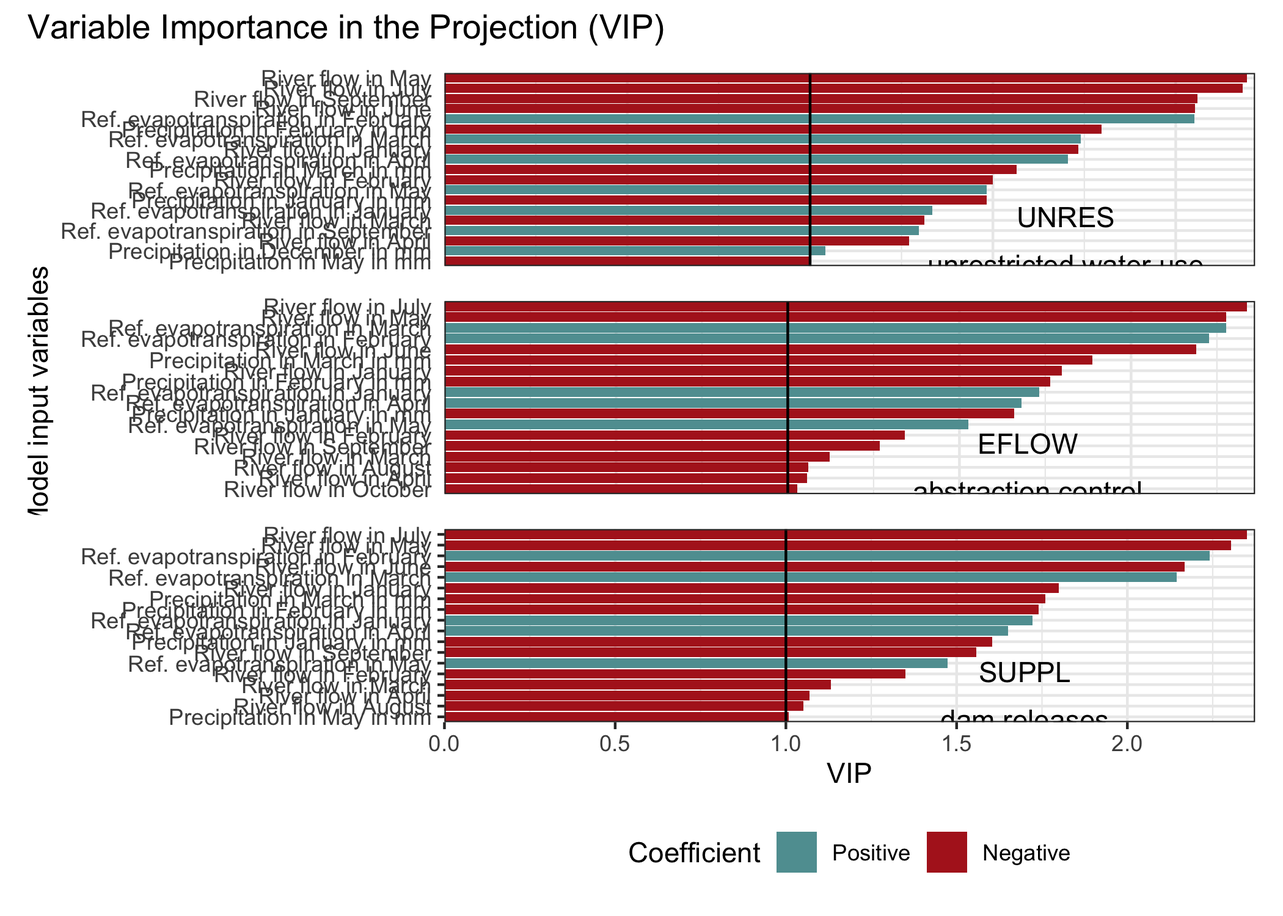
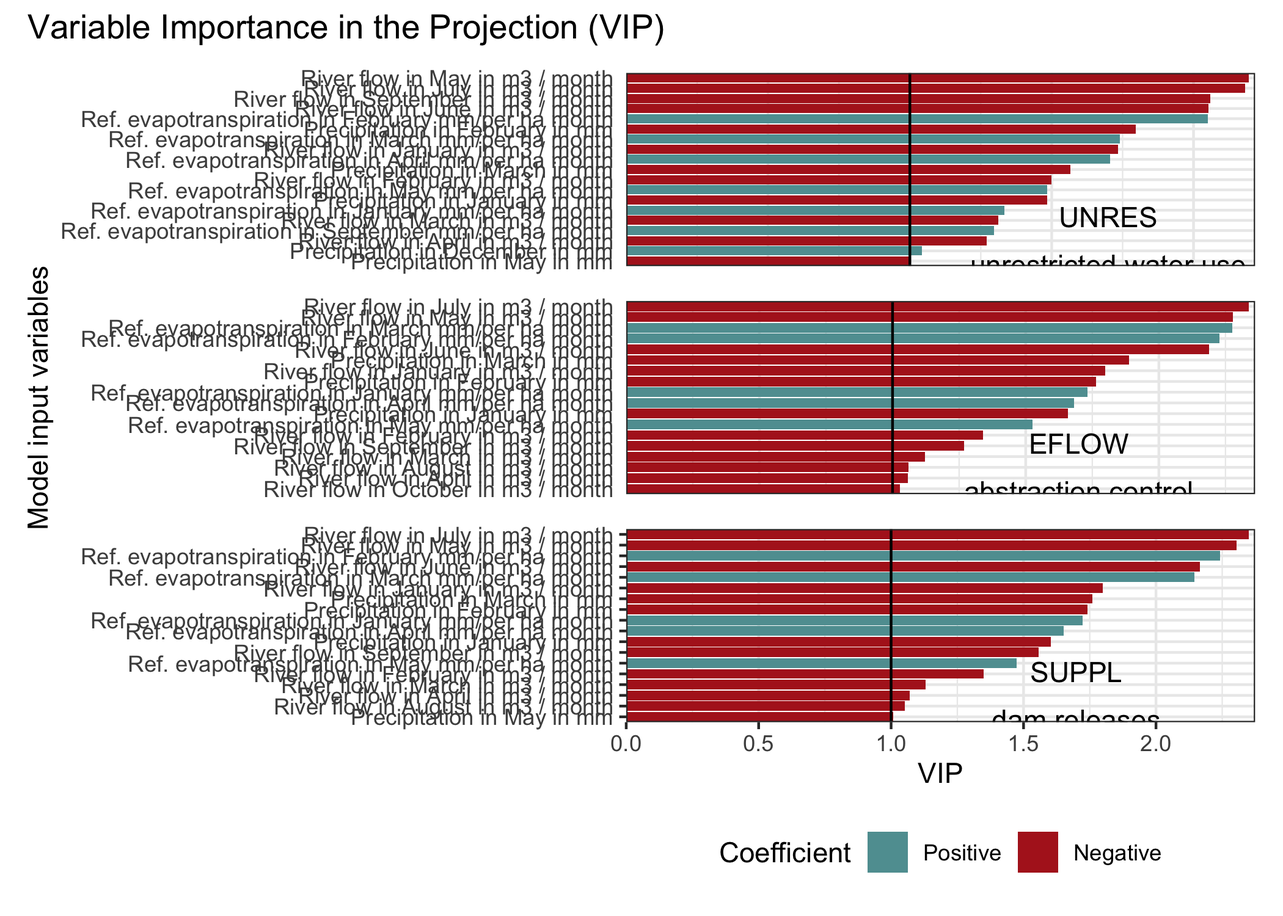
rebuild figures and run with new labels and clarification

diff --git a/index.md b/index.md
@@ -13,10 +13,10 @@ and Whitney 2020; Lanzanova et al. 2019; Cory Whitney et al. 2018). This
 includes collaborative model development (C. Whitney, Shepherd, and
 Luedeling 2018) to assess farming futures given e-flow forecasts under
 different management options. To build these simulations we use
-functions from the `decisionSupport` (Luedeling et al. 2023), `dplyr`
-(Wickham et al. 2023), `nasapower` (Sparks 2023), `patchwork` (Pedersen
+functions from the `decisionSupport` (Luedeling et al. 2024), `dplyr`
+(Wickham et al. 2023), `nasapower` (Sparks 2024), `patchwork` (Pedersen
 2024), `tidyverse` (Wickham 2023b) and `Evapotranspiration` libraries in
-the R programming language (R Core Team 2023).
+the R programming language (R Core Team 2024).
 
 ## The model
 
@@ -45,7 +45,7 @@ identified as carrying decision-relevant uncertainty can then be
 targeted by decision-supporting research.
 
 The `mcSimulation` function from the `decisionSupport` package can be
-applied to conduct decision analysis (Luedeling et al. 2023). The
+applied to conduct decision analysis (Luedeling et al. 2024). The
 function requires three inputs:
 
 1.  an `estimate` of the joint probability distribution of the input
@@ -102,8 +102,8 @@ The following function defines 3 scenarios:
     eflows aren’t achieved, water extraction is curtailed. There are no
     measures to add water to the river in such events. We simulate this
     scenario with our own functions and some from the `nasapower`
-    (Sparks 2023) and `Evapotranspiration` (**R-Evapotranspiration?**)
-    packages.
+    (Sparks 2024) and `Evapotranspiration` (Guo, Westra, and
+    Peterson 2022) packages.
 3.  SUPPL – E-flows achieved through abstraction control and dam
     releases: This is an eflow scenario, in which eflows are interpreted
     as encompassing the ecological as well as the smallholder irrigation
@@ -131,20 +131,20 @@ In the following we use of various `decisionSupport` functions, which
 use the `tidyverse` libraries (Wickham et al. 2019) including `ggplot2`
 (Wickham et al. 2024), `plyr` (Wickham 2023a) and `dplyr` (Wickham et
 al. 2023) among others in the [R programming
-language](https://www.r-project.org/) (R Core Team 2023).
+language](https://www.r-project.org/) (R Core Team 2024).
 
 Here we generate a model as a function using `decisionSupport` library
 we use the `decisionSupport` functions `vv()` to produce time series
-with variation from a pre-defined mean and coefficient of variation,
-`chance_event()` to simulate whether events occur and `discount()` to
-discount values along a time series and generate a Net Present Value for
-our intervention comparison.
+with variation from a pre-defined mean.
 
 The following script contains the basic model we used to run the Monte
 Carlo.
 
 ``` r
-limpopo_decision_function <- function(x, varnames){
+# load vv function
+source(file = "functions/vv.R")
+
+limpopo_decision_function <- function(x){
 
 # generating boundary conditions for the simulation run ####
 
@@ -173,9 +173,9 @@ pre_livestock_river_flow <- sapply(1:12,function(x) eval(parse(text=paste0("rive
 # Define e-flow for each month ####
 eflow <- sapply(1:12,function(x) eval(parse(text=paste0("eflow_",x)))) # in m3 / month
 
-# Calculating the water needed for watering livestock ####
+# Calculating the water needed for watering livestock m3 / month ####
 # assuming that this is more or less stable throughout the year, but varies a bit
-livestock_water_needs <- vv(livestock_water_need,var_CV,12)
+livestock_water_needs <- vv(livestock_water_need,var_CV,12) # m3 / month
 # assuming that the eflows aren't affecting ability to water livestock and that there's always enough water for all the livestock
 river_flow <- pre_livestock_river_flow-livestock_water_needs
 
@@ -192,18 +192,26 @@ total_effective_rainfall <- effective_rainfall*farmed_area*10 # total effective 
 # Calculating the total annual irrigation need m3/ha ####
 total_irrigation_need <- total_cropwater_need-total_effective_rainfall # in m3/ha per year
 # sum(total_irrigation_need/farmed_area) is around 8600 m3/ha, very close to the reported values across the literature in Limpopo
+
 # Calculating the annual water losses in m3/ha ####
 # from the efficiency of the pumps and in the water allocation 
+# Efficiency of pumps (efficiency_pumps) and efficiency of irrigation scheduling (efficiency_irrig_scheduling) are adjusted to ensure they remain between 0 and 1,
 efficiency_pumps <- vv(effi_pump,var_CV,12)
 efficiency_irrig_scheduling <- vv(effi_sched,var_CV,12)
 efficiency_pumps <- sapply(efficiency_pumps, function(x)  min(x,1))
 efficiency_pumps <- sapply(efficiency_pumps, function(x)  max(x,0))
 efficiency_irrig_scheduling <- sapply(efficiency_irrig_scheduling, function(x)  min(x,1))
 efficiency_irrig_scheduling <- sapply(efficiency_irrig_scheduling, function(x)  max(x,0))
-
+# # water_losses_share represents the share of water lost due to inefficiencies, calculated as 
+# 1 − ( efficiency_pumps × efficiency_irrig_scheduling )
+# 1−(efficiency_pumps×efficiency_irrig_scheduling). 
+# This results in higher irrigation water needs to compensate for these losses
 # around 50% efficiency
 water_losses_share <- (1-efficiency_pumps*efficiency_irrig_scheduling)
-
+#Adjusted Irrigation Water Need:
+# irrigation_water_need is calculated by dividing total_irrigation_need by the remaining efficient share 
+# ( 1 − water_losses_share )
+# (1−water_losses_share), effectively increasing the water required due to inefficiencies.
 irrigation_water_need <- total_irrigation_need/(1-water_losses_share) # m3/ha 
 # irrigation inefficiency doubles the irrigation need
 # sum(irrigation_water_need-total_irrigation_need)/farmed_area is around 6,886
@@ -400,6 +408,7 @@ present_flows <- read.csv("data/Letaba_modelled_present_flows_m3_per_s.csv", fil
 presentflowsort <-
   present_flows[, c(1, order(unlist(sapply(colnames(present_flows)[2:13], function(x)
     which(month.abb[1:12] == x)))) + 1)]
+
 presentflow_permonth<-data.frame(cbind(presentflowsort[,1],t(t(presentflowsort[,2:13])*c(31,28,31,30,31,30,31,31,30,31,30,31)*3600*24)))
 
 colnames(presentflow_permonth)[1] <- "Year"
@@ -430,7 +439,7 @@ natural_flows<-read.csv("data/Letaba_modelled_natural_flows_m3_per_s.csv", fileE
 ```
 
 Here we run the model with the `scenario_mc` function from the
-`decisionSupport` package (Luedeling et al. 2023). The function
+`decisionSupport` package (Luedeling et al. 2024). The function
 essentially generates a Monte Carlo model with data from existing
 scenarios for some of the model inputs.
 
@@ -641,7 +650,7 @@ summary(results_evpi$Mean_Crop_water_gap_difference_2_vs_1)
 #>  Length:71          Min.   :0.01654   Min.   :0   Min.   :0.00000   Min.   :0  
 #>  Class :character   1st Qu.:0.08604   1st Qu.:0   1st Qu.:0.06247   1st Qu.:0  
 #>  Mode  :character   Median :0.11693   Median :0   Median :0.11128   Median :0  
-#>                     Mean   :0.10459   Mean   :0   Mean   :0.08691   Mean   :0  
+#>                     Mean   :0.10463   Mean   :0   Mean   :0.08695   Mean   :0  
 #>                     3rd Qu.:0.12497   3rd Qu.:0   3rd Qu.:0.12485   3rd Qu.:0  
 #>                     Max.   :0.17009   Max.   :0   Max.   :0.17009   Max.   :0  
 #>                     NA's   :12                                                 
@@ -664,7 +673,7 @@ summary(results_evpi$Mean_Crop_water_gap_difference_3_vs_1)
 #>  Length:71          Min.   :-0.41450   Min.   :0.0000   Min.   :0   Min.   :0  
 #>  Class :character   1st Qu.:-0.39088   1st Qu.:0.1418   1st Qu.:0   1st Qu.:0  
 #>  Mode  :character   Median :-0.37520   Median :0.3425   Median :0   Median :0  
-#>                     Mean   :-0.31488   Mean   :0.2617   Mean   :0   Mean   :0  
+#>                     Mean   :-0.31470   Mean   :0.2615   Mean   :0   Mean   :0  
 #>                     3rd Qu.:-0.26584   3rd Qu.:0.3904   3rd Qu.:0   3rd Qu.:0  
 #>                     Max.   :-0.04831   Max.   :0.4145   Max.   :0   Max.   :0  
 #>                     NA's   :12                                                 
@@ -682,106 +691,107 @@ There are no variables with a positive EVPI.
 
 ## Estimate values
 
-| Description                                                                                                                                               | variable                          | distribution |       lower |       upper | label                                  |
-|:----------------------------------------------------------------------------------------------------------------------------------------------------------|:----------------------------------|:-------------|------------:|------------:|:---------------------------------------|
-| Precipitation in month 1 in mm                                                                                                                            | prec_1                            | posnorm      |       45.00 |      135.00 | Precipitation in January in mm         |
-| Precipitation in month 2 in mm                                                                                                                            | prec_2                            | posnorm      |       31.00 |       93.00 | Precipitation in February in mm        |
-| Precipitation in month 3 in mm                                                                                                                            | prec_3                            | posnorm      |       25.00 |       75.00 | Precipitation in March in mm           |
-| Precipitation in month 4 in mm                                                                                                                            | prec_4                            | posnorm      |       12.50 |       37.50 | Precipitation in April in mm           |
-| Precipitation in month 5 in mm                                                                                                                            | prec_5                            | posnorm      |       12.50 |       37.50 | Precipitation in May in mm             |
-| Precipitation in month 6 in mm                                                                                                                            | prec_6                            | posnorm      |       35.00 |      105.00 | Precipitation in June in mm            |
-| Precipitation in month 7 in mm                                                                                                                            | prec_7                            | posnorm      |        3.00 |        9.00 | Precipitation in July in mm            |
-| Precipitation in month 8 in mm                                                                                                                            | prec_8                            | posnorm      |        2.00 |        6.00 | Precipitation in August in mm          |
-| Precipitation in month 9 in mm                                                                                                                            | prec_9                            | posnorm      |        1.00 |        3.00 | Precipitation in September in mm       |
-| Precipitation in month 10 in mm                                                                                                                           | prec_10                           | posnorm      |        5.00 |       15.00 | Precipitation in October in mm         |
-| Precipitation in month 11 in mm                                                                                                                           | prec_11                           | posnorm      |        7.00 |       21.00 | Precipitation in November in mm        |
-| Precipitation in month 12 in mm                                                                                                                           | prec_12                           | posnorm      |       45.00 |      135.00 | Precipitation in December in mm        |
-|                                                                                                                                                           |                                   |              |          NA |          NA |                                        |
-|                                                                                                                                                           |                                   |              |          NA |          NA |                                        |
-|                                                                                                                                                           |                                   |              |          NA |          NA |                                        |
-| Reference evapotranspiration (ET0) mm/per ha month 1 (Hargreaves Samani equation with nasapower package)                                                  | ET0_1                             | posnorm      |      144.00 |      240.00 | Ref. evapotranspiration in January     |
-| Reference evapotranspiration (ET0) mm/per ha month 2                                                                                                      | ET0_2                             | posnorm      |      114.75 |      191.25 | Ref. evapotranspiration in February    |
-| Reference evapotranspiration (ET0) mm/per ha month 3                                                                                                      | ET0_3                             | posnorm      |       96.00 |      160.00 | Ref. evapotranspiration in March       |
-| Reference evapotranspiration (ET0) mm/per ha month 4                                                                                                      | ET0_4                             | posnorm      |       67.50 |      112.50 | Ref. evapotranspiration in April       |
-| Reference evapotranspiration (ET0) mm/per ha month 5                                                                                                      | ET0_5                             | posnorm      |       52.50 |       87.50 | Ref. evapotranspiration in May         |
-| Reference evapotranspiration (ET0) mm/per ha month 6                                                                                                      | ET0_6                             | posnorm      |       32.25 |       53.75 | Ref. evapotranspiration in June        |
-| Reference evapotranspiration (ET0) mm/per ha month 7                                                                                                      | ET0_7                             | posnorm      |       40.50 |       67.50 | Ref. evapotranspiration in July        |
-| Reference evapotranspiration (ET0) mm/per ha month 8                                                                                                      | ET0_8                             | posnorm      |       52.50 |       87.50 | Ref. evapotranspiration in August      |
-| Reference evapotranspiration (ET0) mm/per ha month 9                                                                                                      | ET0_9                             | posnorm      |       71.25 |      118.75 | Ref. evapotranspiration in September   |
-| Reference evapotranspiration (ET0) mm/per ha month 10                                                                                                     | ET0_10                            | posnorm      |       99.75 |      166.25 | Ref. evapotranspiration in October     |
-| Reference evapotranspiration (ET0) mm/per ha month 11                                                                                                     | ET0_11                            | posnorm      |      126.00 |      210.00 | Ref. evapotranspiration in November    |
-| Reference evapotranspiration (ET0) mm/per ha month 12                                                                                                     | ET0_12                            | posnorm      |      145.50 |      242.50 | Ref. evapotranspiration in December    |
-|                                                                                                                                                           |                                   |              |          NA |          NA |                                        |
-| Crop coefficient in month 1                                                                                                                               | kc_1                              | posnorm      |        0.90 |        1.00 | Crop coefficient in January            |
-| Crop coefficient in month 2                                                                                                                               | kc_2                              | posnorm      |        0.90 |        1.00 | Crop coefficient in February           |
-| Crop coefficient in month 3                                                                                                                               | kc_3                              | posnorm      |        0.90 |        1.00 | Crop coefficient in March              |
-| Crop coefficient in month 4                                                                                                                               | kc_4                              | posnorm      |        0.90 |        1.00 | Crop coefficient in April              |
-| Crop coefficient in month 5                                                                                                                               | kc_5                              | posnorm      |        0.90 |        1.00 | Crop coefficient in May                |
-| Crop coefficient in month 6                                                                                                                               | kc_6                              | posnorm      |        0.90 |        1.00 | Crop coefficient in June               |
-| Crop coefficient in month 7                                                                                                                               | kc_7                              | posnorm      |        0.90 |        1.00 | Crop coefficient in July               |
-| Crop coefficient in month 8                                                                                                                               | kc_8                              | posnorm      |        0.90 |        1.00 | Crop coefficient in August             |
-| Crop coefficient in month 9                                                                                                                               | kc_9                              | posnorm      |        0.90 |        1.00 | Crop coefficient in September          |
-| Crop coefficient in month 10                                                                                                                              | kc_10                             | posnorm      |        0.90 |        1.00 | Crop coefficient in October            |
-| Crop coefficient in month 11                                                                                                                              | kc_11                             | posnorm      |        0.90 |        1.00 | Crop coefficient in November           |
-| Crop coefficient in month 12                                                                                                                              | kc_12                             | posnorm      |        0.90 |        1.00 | Crop coefficient in December           |
-|                                                                                                                                                           |                                   |              |          NA |          NA |                                        |
-| Effective rainfall - minimum threshold                                                                                                                    | effprec_low                       | posnorm      |        5.00 |       10.00 | Effective rainfall - minimum threshold |
-| Effective rainfall - maximum threshold                                                                                                                    | effprec_high                      | posnorm      |       90.00 |      200.00 | Effective rainfall - maximum threshold |
-|                                                                                                                                                           |                                   |              |          NA |          NA |                                        |
-| Efficiency of water pumps                                                                                                                                 | effi_pump                         | tnorm_0_1    |        0.70 |        0.90 | Efficiency of the water pumps          |
-| Efficiency of irrigation scheduling and allocation                                                                                                        | effi_sched                        | tnorm_0_1    |        0.60 |        0.90 | Efficiency of irrigation scheduling    |
-| Coefficient of variation, ratio of the standard deviation to the mean (a measure of relative variability).                                                | var_CV                            | posnorm      |        5.00 |       20.00 | var_CV                                 |
-|                                                                                                                                                           |                                   |              |          NA |          NA |                                        |
-| Total irrigable area                                                                                                                                      | available_area                    | posnorm      |      100.00 |      300.00 | Available area                         |
-| Share of land that is not used because of socio-political obstacles                                                                                       | unused_sociopolit                 | tnorm_0_1    |        0.20 |        0.40 | Share of unused lands                  |
-| Number of subsistence households                                                                                                                          | n_subsistence_farmers             | posnorm      |       30.00 |      200.00 | Number of subsistence farmers          |
-| Farm size per subsistence households                                                                                                                      | necessary_farm_size_per_household | posnorm      |        1.50 |        2.50 | Needed farm size per household         |
-|                                                                                                                                                           |                                   |              |          NA |          NA |                                        |
-| eflow in month 1 in m3 / month                                                                                                                            | eflow_1                           | posnorm      |  1658637.36 |  2487956.04 | e-flow in January in m3 / month        |
-| eflow in month 2 in m3 / month                                                                                                                            | eflow_2                           | posnorm      |  1953364.40 |  2930046.59 | e-flow in February in m3 / month       |
-| eflow in month 3                                                                                                                                          | eflow_3                           | posnorm      |  2172764.83 |  3259147.25 | e-flow in March in m3 / month          |
-| eflow in month 4                                                                                                                                          | eflow_4                           | posnorm      |  5094152.71 |  7641229.07 | e-flow in April in m3 / month          |
-| eflow in month 5                                                                                                                                          | eflow_5                           | posnorm      | 12093593.23 | 18140389.85 | e-flow in May in m3 / month            |
-| eflow in month 6                                                                                                                                          | eflow_6                           | posnorm      |  4593467.28 |  6890200.92 | e-flow in June in m3 / month           |
-| eflow in month 7                                                                                                                                          | eflow_7                           | posnorm      |  2895912.09 |  4343868.13 | e-flow in July in m3 / month           |
-| eflow in month 8                                                                                                                                          | eflow_8                           | posnorm      |  2484366.68 |  3726550.02 | e-flow in August in m3 / month         |
-| eflow in month 9                                                                                                                                          | eflow_9                           | posnorm      |  2173592.97 |  3260389.45 | e-flow in September in m3 / month      |
-| eflow in month 10                                                                                                                                         | eflow_10                          | posnorm      |  2052485.78 |  3078728.68 | e-flow in October in m3 / month        |
-| eflow in month 11                                                                                                                                         | eflow_11                          | posnorm      |  1670297.91 |  2505446.86 | e-flow in November in m3 / month       |
-| eflow in month 12                                                                                                                                         | eflow_12                          | posnorm      |  1419171.87 |  2128757.80 | e-flow in December in m3 / month       |
-|                                                                                                                                                           |                                   |              |          NA |          NA |                                        |
-| Minimum river flow that allows running the pumps (in m3/month)                                                                                            | minimum_flow_to_operate_pumps     | posnorm      |    50000.00 |   150000.00 | Minimum flow required by pumps         |
-|                                                                                                                                                           |                                   |              |          NA |          NA |                                        |
-| river flow in month 1 (Taken from base flow MCM data from 1920 to 2010 (Letaba River at EWR site EWR4 (Letaba Ranch upstream Little Letaba confluence) )) | river_flow_1                      | posnorm      |  3289641.29 | 14884566.58 | River flow in January                  |
-| river flow in month 2                                                                                                                                     | river_flow_2                      | posnorm      |  3552190.55 | 28211390.25 | River flow in February                 |
-| river flow in month 3                                                                                                                                     | river_flow_3                      | posnorm      |  3629341.05 | 24557111.18 | River flow in March                    |
-| river flow in month 4                                                                                                                                     | river_flow_4                      | posnorm      |  3593958.87 | 18063311.23 | River flow in April                    |
-| river flow in month 5                                                                                                                                     | river_flow_5                      | posnorm      |  3506617.70 | 11756278.83 | River flow in May                      |
-| river flow in month 6                                                                                                                                     | river_flow_6                      | posnorm      |  3448532.21 |  8821373.46 | River flow in June                     |
-| river flow in month 7                                                                                                                                     | river_flow_7                      | posnorm      |  3270609.32 |  7597819.59 | River flow in July                     |
-| river flow in month 8                                                                                                                                     | river_flow_8                      | posnorm      |  2770310.63 |  6595355.44 | River flow in August                   |
-| river flow in month 9                                                                                                                                     | river_flow_9                      | posnorm      |  2475234.52 |  5976080.25 | River flow in September                |
-| river flow in month 10                                                                                                                                    | river_flow_10                     | posnorm      |  2195340.50 |  5425988.65 | River flow in October                  |
-| river flow in month 11                                                                                                                                    | river_flow_11                     | posnorm      |  2306113.10 |  6163707.61 | River flow in November                 |
-| river flow in month 12                                                                                                                                    | river_flow_12                     | posnorm      |  2699506.90 |  7293206.41 | River flow in December                 |
-|                                                                                                                                                           |                                   |              |          NA |          NA |                                        |
-| livestock water need per month                                                                                                                            | livestock_water_need              | posnorm      |      300.00 |     2000.00 | livestock_water_need                   |
+| Description | variable | distribution | lower | upper | label |
+|:---|:---|:---|---:|---:|:---|
+| Precipitation in month 1 in mm | prec_1 | posnorm | 45.00 | 135.00 | Precipitation in January in mm |
+| Precipitation in month 2 in mm | prec_2 | posnorm | 31.00 | 93.00 | Precipitation in February in mm |
+| Precipitation in month 3 in mm | prec_3 | posnorm | 25.00 | 75.00 | Precipitation in March in mm |
+| Precipitation in month 4 in mm | prec_4 | posnorm | 12.50 | 37.50 | Precipitation in April in mm |
+| Precipitation in month 5 in mm | prec_5 | posnorm | 12.50 | 37.50 | Precipitation in May in mm |
+| Precipitation in month 6 in mm | prec_6 | posnorm | 35.00 | 105.00 | Precipitation in June in mm |
+| Precipitation in month 7 in mm | prec_7 | posnorm | 3.00 | 9.00 | Precipitation in July in mm |
+| Precipitation in month 8 in mm | prec_8 | posnorm | 2.00 | 6.00 | Precipitation in August in mm |
+| Precipitation in month 9 in mm | prec_9 | posnorm | 1.00 | 3.00 | Precipitation in September in mm |
+| Precipitation in month 10 in mm | prec_10 | posnorm | 5.00 | 15.00 | Precipitation in October in mm |
+| Precipitation in month 11 in mm | prec_11 | posnorm | 7.00 | 21.00 | Precipitation in November in mm |
+| Precipitation in month 12 in mm | prec_12 | posnorm | 45.00 | 135.00 | Precipitation in December in mm |
+|  |  |  | NA | NA |  |
+|  |  |  | NA | NA |  |
+|  |  |  | NA | NA |  |
+| Reference evapotranspiration (ET0) mm/per ha month 1 (Hargreaves Samani equation with nasapower package) | ET0_1 | posnorm | 144.00 | 240.00 | Ref. evapotranspiration in January mm/per ha month |
+| Reference evapotranspiration (ET0) mm/per ha month 2 | ET0_2 | posnorm | 114.75 | 191.25 | Ref. evapotranspiration in February mm/per ha month |
+| Reference evapotranspiration (ET0) mm/per ha month 3 | ET0_3 | posnorm | 96.00 | 160.00 | Ref. evapotranspiration in March mm/per ha month |
+| Reference evapotranspiration (ET0) mm/per ha month 4 | ET0_4 | posnorm | 67.50 | 112.50 | Ref. evapotranspiration in April mm/per ha month |
+| Reference evapotranspiration (ET0) mm/per ha month 5 | ET0_5 | posnorm | 52.50 | 87.50 | Ref. evapotranspiration in May mm/per ha month |
+| Reference evapotranspiration (ET0) mm/per ha month 6 | ET0_6 | posnorm | 32.25 | 53.75 | Ref. evapotranspiration in June mm/per ha month |
+| Reference evapotranspiration (ET0) mm/per ha month 7 | ET0_7 | posnorm | 40.50 | 67.50 | Ref. evapotranspiration in July mm/per ha month |
+| Reference evapotranspiration (ET0) mm/per ha month 8 | ET0_8 | posnorm | 52.50 | 87.50 | Ref. evapotranspiration in August mm/per ha month |
+| Reference evapotranspiration (ET0) mm/per ha month 9 | ET0_9 | posnorm | 71.25 | 118.75 | Ref. evapotranspiration in September mm/per ha month |
+| Reference evapotranspiration (ET0) mm/per ha month 10 | ET0_10 | posnorm | 99.75 | 166.25 | Ref. evapotranspiration in October mm/per ha month |
+| Reference evapotranspiration (ET0) mm/per ha month 11 | ET0_11 | posnorm | 126.00 | 210.00 | Ref. evapotranspiration in November mm/per ha month |
+| Reference evapotranspiration (ET0) mm/per ha month 12 | ET0_12 | posnorm | 145.50 | 242.50 | Ref. evapotranspiration in December mm/per ha month |
+|  |  |  | NA | NA |  |
+| Crop coefficient in month 1 | kc_1 | posnorm | 0.90 | 1.00 | Crop coefficient in January (%) |
+| Crop coefficient in month 2 | kc_2 | posnorm | 0.90 | 1.00 | Crop coefficient in February (%) |
+| Crop coefficient in month 3 | kc_3 | posnorm | 0.90 | 1.00 | Crop coefficient in March (%) |
+| Crop coefficient in month 4 | kc_4 | posnorm | 0.90 | 1.00 | Crop coefficient in April (%) |
+| Crop coefficient in month 5 | kc_5 | posnorm | 0.90 | 1.00 | Crop coefficient in May (%) |
+| Crop coefficient in month 6 | kc_6 | posnorm | 0.90 | 1.00 | Crop coefficient in June (%) |
+| Crop coefficient in month 7 | kc_7 | posnorm | 0.90 | 1.00 | Crop coefficient in July (%) |
+| Crop coefficient in month 8 | kc_8 | posnorm | 0.90 | 1.00 | Crop coefficient in August (%) |
+| Crop coefficient in month 9 | kc_9 | posnorm | 0.90 | 1.00 | Crop coefficient in September (%) |
+| Crop coefficient in month 10 | kc_10 | posnorm | 0.90 | 1.00 | Crop coefficient in October (%) |
+| Crop coefficient in month 11 | kc_11 | posnorm | 0.90 | 1.00 | Crop coefficient in November (%) |
+| Crop coefficient in month 12 | kc_12 | posnorm | 0.90 | 1.00 | Crop coefficient in December (%) |
+|  |  |  | NA | NA |  |
+| Effective rainfall - minimum threshold | effprec_low | posnorm | 5.00 | 10.00 | Effective rainfall - minimum threshold |
+| Effective rainfall - maximum threshold | effprec_high | posnorm | 90.00 | 200.00 | Effective rainfall - maximum threshold |
+|  |  |  | NA | NA |  |
+| Efficiency of water pumps | effi_pump | tnorm_0_1 | 0.70 | 0.90 | Efficiency of the water pumps (%) |
+| Efficiency of irrigation scheduling and allocation | effi_sched | tnorm_0_1 | 0.60 | 0.90 | Efficiency of irrigation scheduling (%) |
+| Coefficient of variation, ratio of the standard deviation to the mean (a measure of relative variability). | var_CV | posnorm | 5.00 | 20.00 | Coefficient of variation (%) |
+|  |  |  | NA | NA |  |
+| Total irrigable area | available_area | posnorm | 100.00 | 300.00 | Available area (ha) |
+| Share of land that is not used because of socio-political obstacles | unused_sociopolit | tnorm_0_1 | 0.20 | 0.40 | Share of land unused due to sociopolitical obstacles (%) |
+| Number of subsistence households | n_subsistence_farmers | posnorm | 30.00 | 200.00 | Number of subsistence farmers (#) |
+| Farm size per subsistence households | necessary_farm_size_per_household | posnorm | 1.50 | 2.50 | Needed farm size per household (ha) |
+|  |  |  | NA | NA |  |
+| eflow in month 1 in m3 / month | eflow_1 | posnorm | 1658637.36 | 2487956.04 | e-flow in January in m3 / month |
+| eflow in month 2 in m3 / month | eflow_2 | posnorm | 1953364.40 | 2930046.59 | e-flow in February in m3 / month |
+| eflow in month 3 | eflow_3 | posnorm | 2172764.83 | 3259147.25 | e-flow in March in m3 / month |
+| eflow in month 4 | eflow_4 | posnorm | 5094152.71 | 7641229.07 | e-flow in April in m3 / month |
+| eflow in month 5 | eflow_5 | posnorm | 12093593.23 | 18140389.85 | e-flow in May in m3 / month |
+| eflow in month 6 | eflow_6 | posnorm | 4593467.28 | 6890200.92 | e-flow in June in m3 / month |
+| eflow in month 7 | eflow_7 | posnorm | 2895912.09 | 4343868.13 | e-flow in July in m3 / month |
+| eflow in month 8 | eflow_8 | posnorm | 2484366.68 | 3726550.02 | e-flow in August in m3 / month |
+| eflow in month 9 | eflow_9 | posnorm | 2173592.97 | 3260389.45 | e-flow in September in m3 / month |
+| eflow in month 10 | eflow_10 | posnorm | 2052485.78 | 3078728.68 | e-flow in October in m3 / month |
+| eflow in month 11 | eflow_11 | posnorm | 1670297.91 | 2505446.86 | e-flow in November in m3 / month |
+| eflow in month 12 | eflow_12 | posnorm | 1419171.87 | 2128757.80 | e-flow in December in m3 / month |
+|  |  |  | NA | NA |  |
+| Minimum river flow that allows running the pumps (in m3/month) | minimum_flow_to_operate_pumps | posnorm | 50000.00 | 150000.00 | Minimum flow required by pumps m3/month |
+|  |  |  | NA | NA |  |
+| river flow in month 1 (Taken from base flow MCM data from 1920 to 2010 (Letaba River at EWR site EWR4 (Letaba Ranch upstream Little Letaba confluence) )) | river_flow_1 | posnorm | 3289641.29 | 14884566.58 | River flow in January in m3 / month |
+| river flow in month 2 | river_flow_2 | posnorm | 3552190.55 | 28211390.25 | River flow in February in m3 / month |
+| river flow in month 3 | river_flow_3 | posnorm | 3629341.05 | 24557111.18 | River flow in March in m3 / month |
+| river flow in month 4 | river_flow_4 | posnorm | 3593958.87 | 18063311.23 | River flow in April in m3 / month |
+| river flow in month 5 | river_flow_5 | posnorm | 3506617.70 | 11756278.83 | River flow in May in m3 / month |
+| river flow in month 6 | river_flow_6 | posnorm | 3448532.21 | 8821373.46 | River flow in June in m3 / month |
+| river flow in month 7 | river_flow_7 | posnorm | 3270609.32 | 7597819.59 | River flow in July in m3 / month |
+| river flow in month 8 | river_flow_8 | posnorm | 2770310.63 | 6595355.44 | River flow in August in m3 / month |
+| river flow in month 9 | river_flow_9 | posnorm | 2475234.52 | 5976080.25 | River flow in September in m3 / month |
+| river flow in month 10 | river_flow_10 | posnorm | 2195340.50 | 5425988.65 | River flow in October in m3 / month |
+| river flow in month 11 | river_flow_11 | posnorm | 2306113.10 | 6163707.61 | River flow in November in m3 / month |
+| river flow in month 12 | river_flow_12 | posnorm | 2699506.90 | 7293206.41 | River flow in December in m3 / month |
+|  |  |  | NA | NA |  |
+| livestock water need per month | livestock_water_need | posnorm | 300.00 | 2000.00 | Water needed for watering livestock m3 / month |
 
 This table contains the estimate values used for the Monte Carlo
 analysis
 
-This document was generated using the `rmarkdown` (Allaire et al. 2023)
-and `knitr` (Xie 2023) packages in the R programming language (R Core
-Team 2023).
+This document was generated using the `rmarkdown` (Allaire et al. 2024)
+and `knitr` (Xie 2024) packages in the R programming language (R Core
+Team 2024).
 
 ## References
 
-<div id="refs" class="references csl-bib-body hanging-indent">
+<div id="refs" class="references csl-bib-body hanging-indent"
+entry-spacing="0">
 
 <div id="ref-R-rmarkdown" class="csl-entry">
 
 Allaire, JJ, Yihui Xie, Christophe Dervieux, Jonathan McPherson, Javier
-Luraschi, Kevin Ushey, Aron Atkins, et al. 2023. *Rmarkdown: Dynamic
+Luraschi, Kevin Ushey, Aron Atkins, et al. 2024. *Rmarkdown: Dynamic
 Documents for r*. <https://github.com/rstudio/rmarkdown>.
 
 </div>
@@ -792,6 +802,14 @@ Do, Hoa, Eike Luedeling, and Cory Whitney. 2020. “Decision Analysis of
 Agroforestry Options Reveals Adoption Risks for Resource-Poor Farmers.”
 *Agronomy for Sustainable Development* 40 (3): 20.
 <https://doi.org/10.1007/s13593-020-00624-5>.
+
+</div>
+
+<div id="ref-R-Evapotranspiration" class="csl-entry">
+
+Guo, Danlu, Seth Westra, and Tim Peterson. 2022. *Evapotranspiration:
+Modelling Actual, Potential and Reference Crop Evapotranspiration*.
+<https://CRAN.R-project.org/package=Evapotranspiration>.
 
 </div>
 
@@ -808,7 +826,7 @@ Software* 115 (May): 164–75.
 <div id="ref-R-decisionSupport" class="csl-entry">
 
 Luedeling, Eike, Lutz Goehring, Katja Schiffers, Cory Whitney, and
-Eduardo Fernandez. 2023. *decisionSupport: Quantitative Support of
+Eduardo Fernandez. 2024. *decisionSupport: Quantitative Support of
 Decision Making Under Uncertainty*. <http://www.worldagroforestry.org/>.
 
 </div>
@@ -822,7 +840,7 @@ Pedersen, Thomas Lin. 2024. *Patchwork: The Composer of Plots*.
 
 <div id="ref-R-base" class="csl-entry">
 
-R Core Team. 2023. *R: A Language and Environment for Statistical
+R Core Team. 2024. *R: A Language and Environment for Statistical
 Computing*. Vienna, Austria: R Foundation for Statistical Computing.
 <https://www.R-project.org/>.
 
@@ -830,7 +848,7 @@ Computing*. Vienna, Austria: R Foundation for Statistical Computing.
 
 <div id="ref-R-nasapower" class="csl-entry">
 
-Sparks, Adam H. 2023. *Nasapower: NASA POWER API Client*.
+Sparks, Adam H. 2024. *Nasapower: NASA POWER API Client*.
 <https://docs.ropensci.org/nasapower/>.
 
 </div>
@@ -905,7 +923,7 @@ Intelligent Laboratory Systems*, PLS Methods, 58 (2): 109–30.
 
 <div id="ref-R-knitr" class="csl-entry">
 
-Xie, Yihui. 2023. *Knitr: A General-Purpose Package for Dynamic Report
+Xie, Yihui. 2024. *Knitr: A General-Purpose Package for Dynamic Report
 Generation in r*. <https://yihui.org/knitr/>.
 
 </div>
